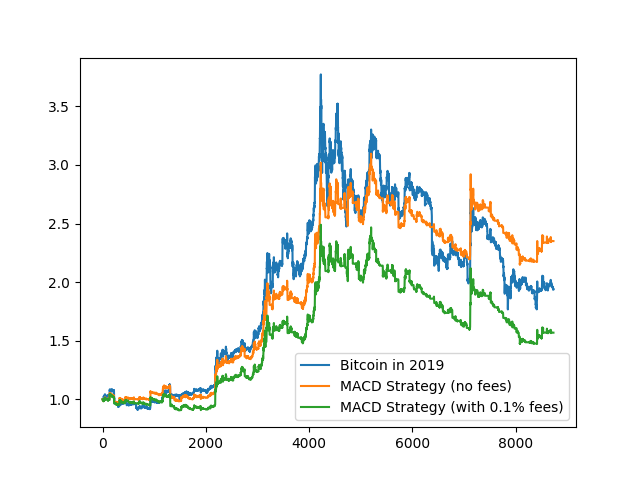
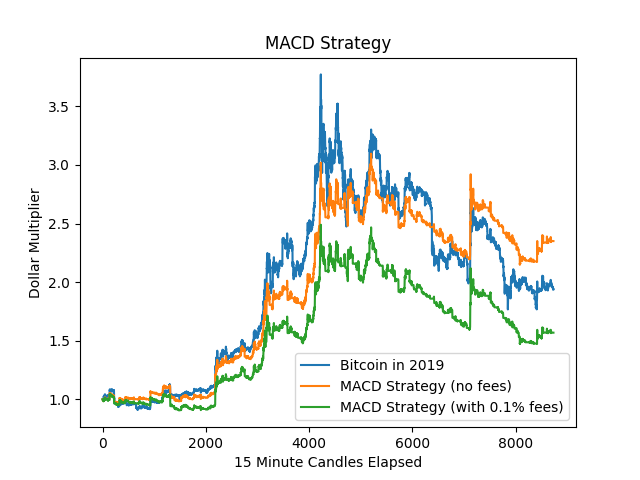
Add chart labels

Changed region(s): [[0.4062, 0.0625, 0.5938, 0.125], [0.375, 0.9375, 0.6562, 1.0], [0.0312, 0.4062, 0.0625, 0.625]]

diff --git a/backtests/EXAMPLE_backtest.py b/backtests/EXAMPLE_backtest.py
@@ -18,6 +18,9 @@ returns_after_fees = backtest(strategy, df, fee)
 plt.plot(price / price[0], label='Bitcoin in 2019')
 plt.plot(np.cumprod(returns), label='MACD Strategy (no fees)')
 plt.plot(np.cumprod(returns_after_fees), label='MACD Strategy (with %s%% fees)' % (fee * 100))
+plt.title('MACD Strategy')
+plt.xlabel('15 Minute Candles Elapsed')
+plt.ylabel('Dollar Multiplier')
 plt.legend()
 plt.savefig('../plots/EXAMPLE_MACD_returns.png')
 plt.show()
